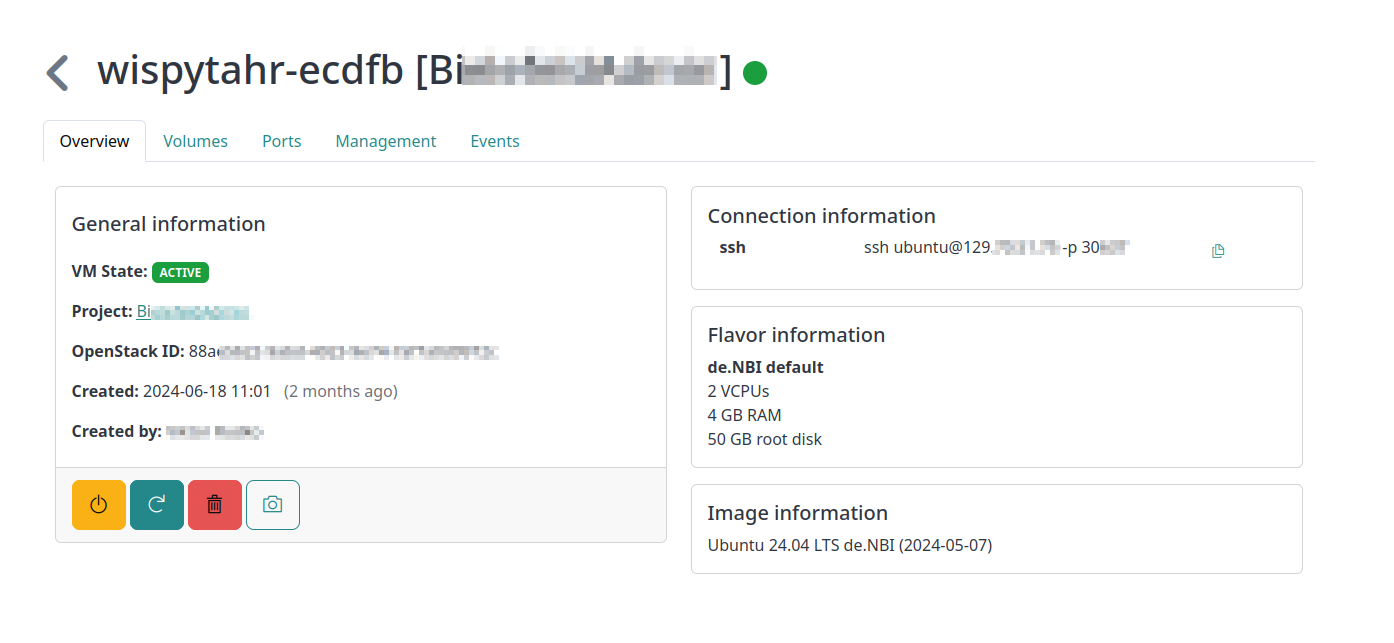
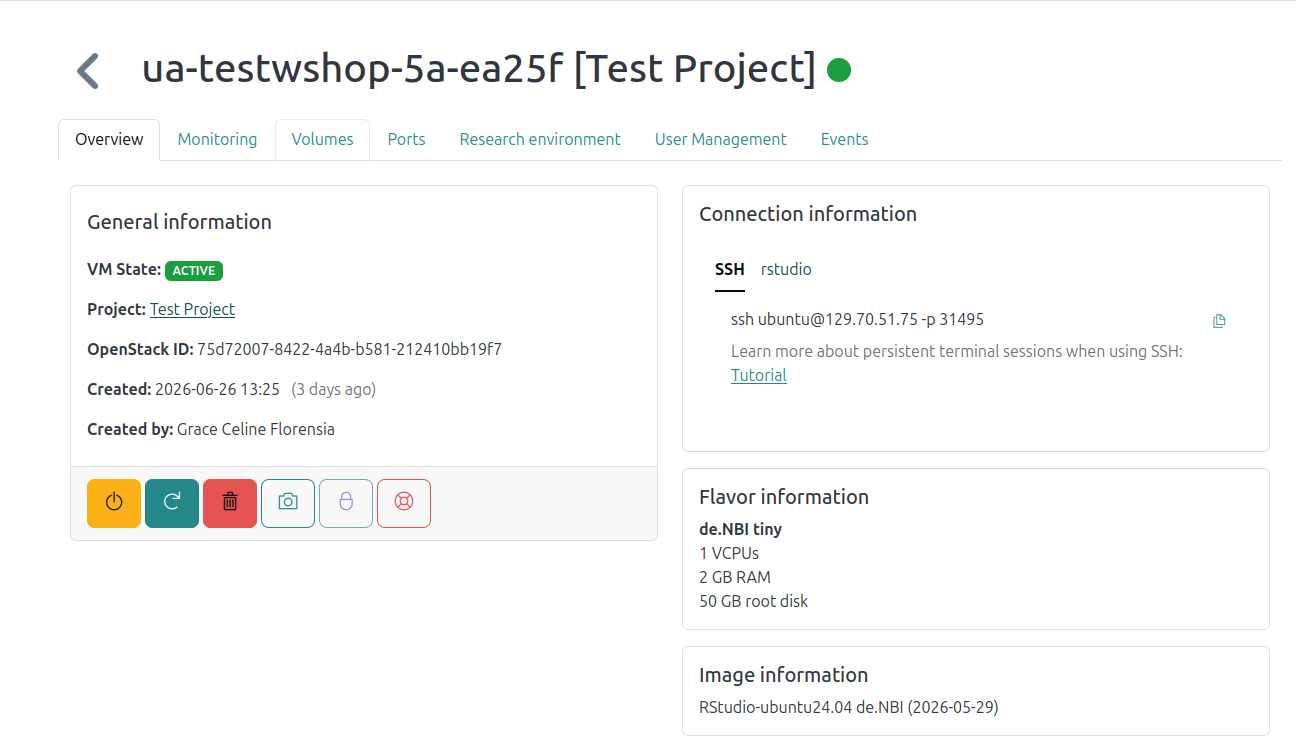
updated screenshots on wiki

diff --git a/wiki/simple_vm/Instance/instance_detail.md b/wiki/simple_vm/Instance/instance_detail.md
@@ -71,6 +71,11 @@ Once the deletion reminder has been sent, the VM may be deleted at any time. How
 
 By following this confirmation process, we aim to ensure that only actively used VMs remain in operation, reducing unnecessary resource consumption and costs.
 
+## Monitoring
+
+![monitoring_tab](../img/instance_detail/monitoring_tab.png)
+
+This tab shows the resource usage of the virtual machine overtime.
 
 ## Volumes
 
